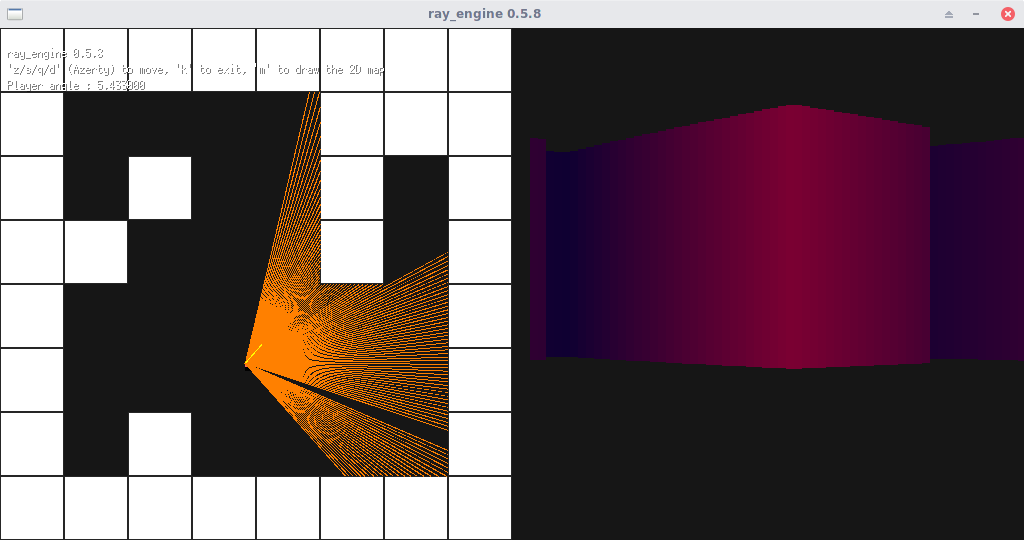
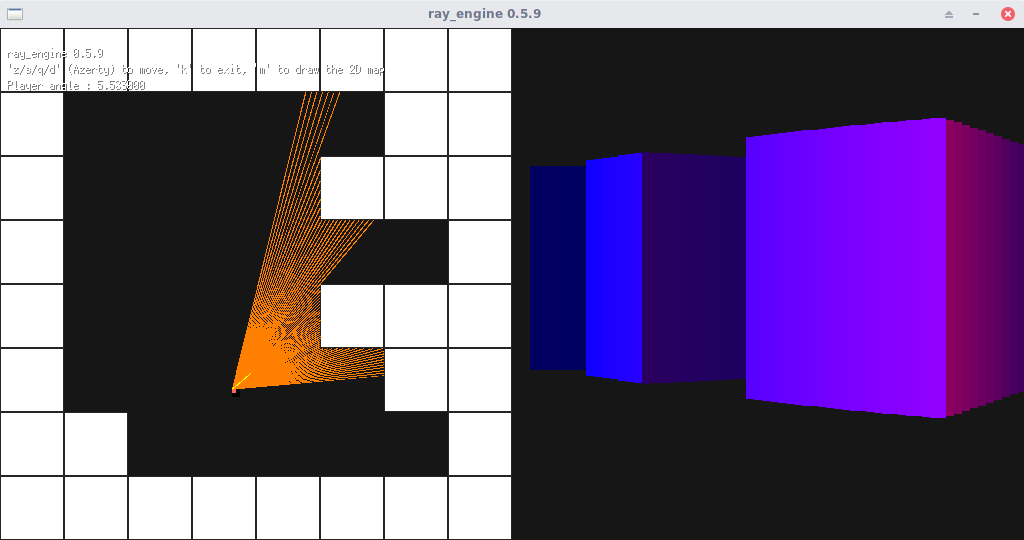
Fix ray gaps

diff --git a/ray_engine.go b/ray_engine.go
@@ -15,6 +15,7 @@ import (
 	"math"
 	"os"
 	"strings"
+	//"strconv"
 )
 
 var (
@@ -27,31 +28,30 @@ var (
 	bg_posy         float64 = 0
 	wall_posx       float64 = 0
 	wall_posy       float64 = 0
-	CONST_PI        float64 = 3.14159
+	CONST_PI        float64 = 3.1415926535
 	CONST_PI2       float64 = CONST_PI / 2
-	CONST_PI3       float64 = 3 * (CONST_PI / 2)
+	CONST_PI3       float64 = (3 * CONST_PI) / 2
 	CONST_DR        float64 = 0.0174533 // one radian in degrees
-	//CONST_2D_MAP_BLOC_SIZE float64 = 64
 	player_pos_x    float64 = 220
 	player_pos_y    float64 = 320
 	player_delta_x  float64 = 0
 	player_delta_y  float64 = 0
-	player_angle            = 4.33 // Initial angle
+	player_angle    float64 = 0 // Initial angle
 	mapX            int     = 8
 	mapY            int     = 8
 	boot                    = 56
 	STATE_SHOW_2D_MAP = 1
-	engine_version          = "ray_engine 0.5.8"
+	engine_version          = "ray_engine 0.5.9"
 	debug_str               = "'z/s/q/d' (Azerty) to move, 'k' to exit, 'm' to draw the 2D map"
 	str             string
 	map_array = [64]int{
 		1, 1, 1, 1, 1, 1, 1, 1,
+		1, 0, 0, 0, 0, 0, 1, 1,
 		1, 0, 0, 0, 0, 1, 1, 1,
-		1, 0, 1, 0, 0, 1, 0, 1,
-		1, 1, 0, 0, 0, 1, 0, 1,
 		1, 0, 0, 0, 0, 0, 0, 1,
-		1, 0, 0, 0, 0, 0, 0, 1,
-		1, 0, 1, 0, 0, 0, 0, 1,
+		1, 0, 0, 0, 0, 1, 1, 1,
+		1, 0, 0, 0, 0, 0, 1, 1,
+		1, 1, 0, 0, 0, 0, 0, 1,
 		1, 1, 1, 1, 1, 1, 1, 1,
 	}
 
@@ -83,8 +83,9 @@ func fix_fisheye() {
   disT = disT * math.Cos(ca)
 }
 
-func cast_horiz() {
+func check_horiz() {
 		dof = 0
+		disH = 1000000
 		hx = player_pos_x
 		hy = player_pos_y
 		aTan = -1 / math.Tan(ra)
@@ -110,7 +111,7 @@ func cast_horiz() {
 			mx = (int(rx) >> 6)
 			my = (int(ry) >> 6)
 			mp = my*mapX + mx
-			if (mp > 0 && mp < mapX*mapY) && map_array[mp] > 0 { // was == 1
+			if (mp > 0 && mp < mapX*mapY && map_array[mp] > 0) { // was == 1
 				dof = 8 // hit wall
 				hx = rx
 				hy = ry
@@ -119,13 +120,14 @@ func cast_horiz() {
 			} else {
 				rx = rx + xo
 				ry = ry + yo
-				dof = dof + 1
+				dof++
 			}
 		}
 }
 
-func cast_verti(screen *ebiten.Image) {
+func check_verti(screen *ebiten.Image) {
 dof = 0
+disV = 1000000
 		vx = player_pos_x
 		vy = player_pos_y
 		nTan = -math.Tan(ra)
@@ -141,6 +143,7 @@ dof = 0
 			xo = 64
 			yo = -xo * nTan
 		}
+		// staight up or down
 		if ra == 0 || ra == CONST_PI {
 			rx = player_pos_x
 			ry = player_pos_y
@@ -150,31 +153,30 @@ dof = 0
 			mx = (int(rx) >> 6)
 			my = (int(ry) >> 6)
 			mp = my*mapX + mx
-			if (mp > 0 && mp < mapX*mapY) && map_array[mp] > 0 { // was == 1
+			if (mp > 0 && mp < mapX*mapY && map_array[mp] > 0) { // was == 1
 				dof = 8 // hit wall
 				vx = rx ; vy = ry
 				// ax ay bx by ang
 				disV = math.Sqrt((vx-player_pos_x)*(vx-player_pos_x) + (vy-player_pos_y)*(vy-player_pos_y))
 			} else {
-				rx = rx + xo ; ry = ry + yo ; dof = dof + 1
+				rx = rx + xo ; ry = ry + yo ; dof++
 			}
 		}
 		if disV < disH {
 			rx = vx ; ry = vy ; disT = disV
-			/*COLOR_R = 192
+			//COLOR_R = 0
 			COLOR_G = 0
-			COLOR_B = 50*/
+			COLOR_B = 255
 		} else if disH < disV {
 			rx = hx ; ry = hy ; disT = disH
-			/*COLOR_R = 248
+			//COLOR_R = 0
 			COLOR_G = 0
-			COLOR_B = 50*/
+			COLOR_B = 96
 		}
 		// Draw Shortest ray based on disT in Orange
 		if STATE_SHOW_2D_MAP == 1 {
 		  ebitenutil.DrawLine(screen, player_pos_x, player_pos_y, rx, ry, color.RGBA{255, 128, 0, 255})
 	  }
-		ra = (ra + CONST_DR)
 		if ra < 0 {
 			ra = ra + (2 * CONST_PI)
 		}
@@ -184,57 +186,45 @@ dof = 0
 }
 
 func cast_rays(screen *ebiten.Image) {
-	ra = player_angle - CONST_DR*30
+	ra = player_angle - CONST_DR*36 // numbers of ray / 2
 	if ra < 0 {
-		ra = ra + 2*CONST_PI
+		ra = ra + (2 * CONST_PI)
 	}
-	if ra > 2*CONST_PI {
-		ra = ra - 2*CONST_PI
+	if ra > (2 * CONST_PI) {
+		ra = ra - (2 * CONST_PI)
 	}
-	for ray := 0; ray < 128; ray++ { // numbers of ray casted
+	for ray := 0; ray < 72; ray++ { // numbers of ray casted
 		// Horizontal lines
-		cast_horiz()
+		check_horiz()
 		// Vertical lines + smallest line
-		cast_verti(screen)
-		// Fix fisheye effect
-		fix_fisheye()
+		check_verti(screen)
 
 	  // Draw 3D lines/map
 		lineH = float64(64 * 320) / disT
 		if lineH > float64(320) {
 			lineH = float64(320)
 		}
-		// "dim" far objects
-		/*if lineH < float64(160) {
-			COLOR_R = 128
-			COLOR_G = 0
-			COLOR_B = 50
-		}
-		if lineH < float64(120) {
-			COLOR_R = 96
-			COLOR_G = 0
-			COLOR_B = 25
-		}
-		if lineH < float64(80) {
-			COLOR_R = 64
-			COLOR_G = 0
-			COLOR_B = 0
-		}*/
 		
 		// Dim 2.0 shader
-		COLOR_R=uint8(float64(lineH - 65))
+		COLOR_R=uint8(float64(lineH - 65)) // 320(max) - 65 = 255 (max RGB value)
 		if COLOR_R < 0 {
 			COLOR_R = 0
 		}
-		if COLOR_R> 255 {
-			COLOR_R = 255
+		if COLOR_R > 255 {
+			COLOR_R = 0
 		}
-		COLOR_B=50
+		// End of Dim 2.0 shader
+    //COLOR_R = 192
+		// Fix fisheye effect
+		fix_fisheye()
 
-		lineO = 160 - (lineH/float64(2.25)) // was 2 (int) but 2.x helps with perspective somehow
-		// x, y, rayx8, lineH
+		lineO = 160 - (lineH/float64(3)) // was 2 (int) but 2.x helps with perspective somehow
+
+		// x, y, ray x8, lineH
+		//fmt.Println(strconv.Itoa(int(COLOR_R))
 		ebitenutil.DrawRect(screen, float64(x3d), float64(lineO), float64(8), lineH+lineO, color.RGBA{COLOR_R, COLOR_G, COLOR_B, 255})
 		x3d = x3d + 8
+		ra = (ra + CONST_DR) // increment
 	}
 	x3d = x3d_orig
 }
@@ -253,9 +243,11 @@ func update(screen *ebiten.Image) error {
 	if boot > 0 {
 		boot = boot - 1
 		screen.DrawImage(SplashImage, opSplash)
-		// Initial values for PDX/PDY
-		player_delta_x = math.Cos(player_angle) * 5
-		player_delta_y = math.Sin(player_angle) * 5
+		if boot == 1 {
+			// Initial values for PDX/PDY, only applied once
+			player_delta_x = math.Cos(player_angle) * 5
+			player_delta_y = math.Sin(player_angle) * 5
+	  }
 	} else {
 		screen.DrawImage(backgroundImage, opBackground)
 		// Draw 2D map
@@ -289,7 +281,6 @@ func update(screen *ebiten.Image) error {
 		// https://pkg.go.dev/github.com/hajimehoshi/ebiten/ebitenutil#DrawLine
 		if STATE_SHOW_2D_MAP == 1 {
 		  ebitenutil.DrawLine(screen, player_pos_x, player_pos_y, player_pos_x+(player_delta_x*5), player_pos_y+(player_delta_y*5), color.RGBA{255, 255, 0, 255})
-		  //ebitenutil.DrawLine(screen, player_pos_x, player_pos_y, player_pos_x+(player_delta_x*2), player_pos_y+(player_delta_y*2), color.RGBA{255, 255, 0, 255})
 	  }
 
 		// Show debug info
